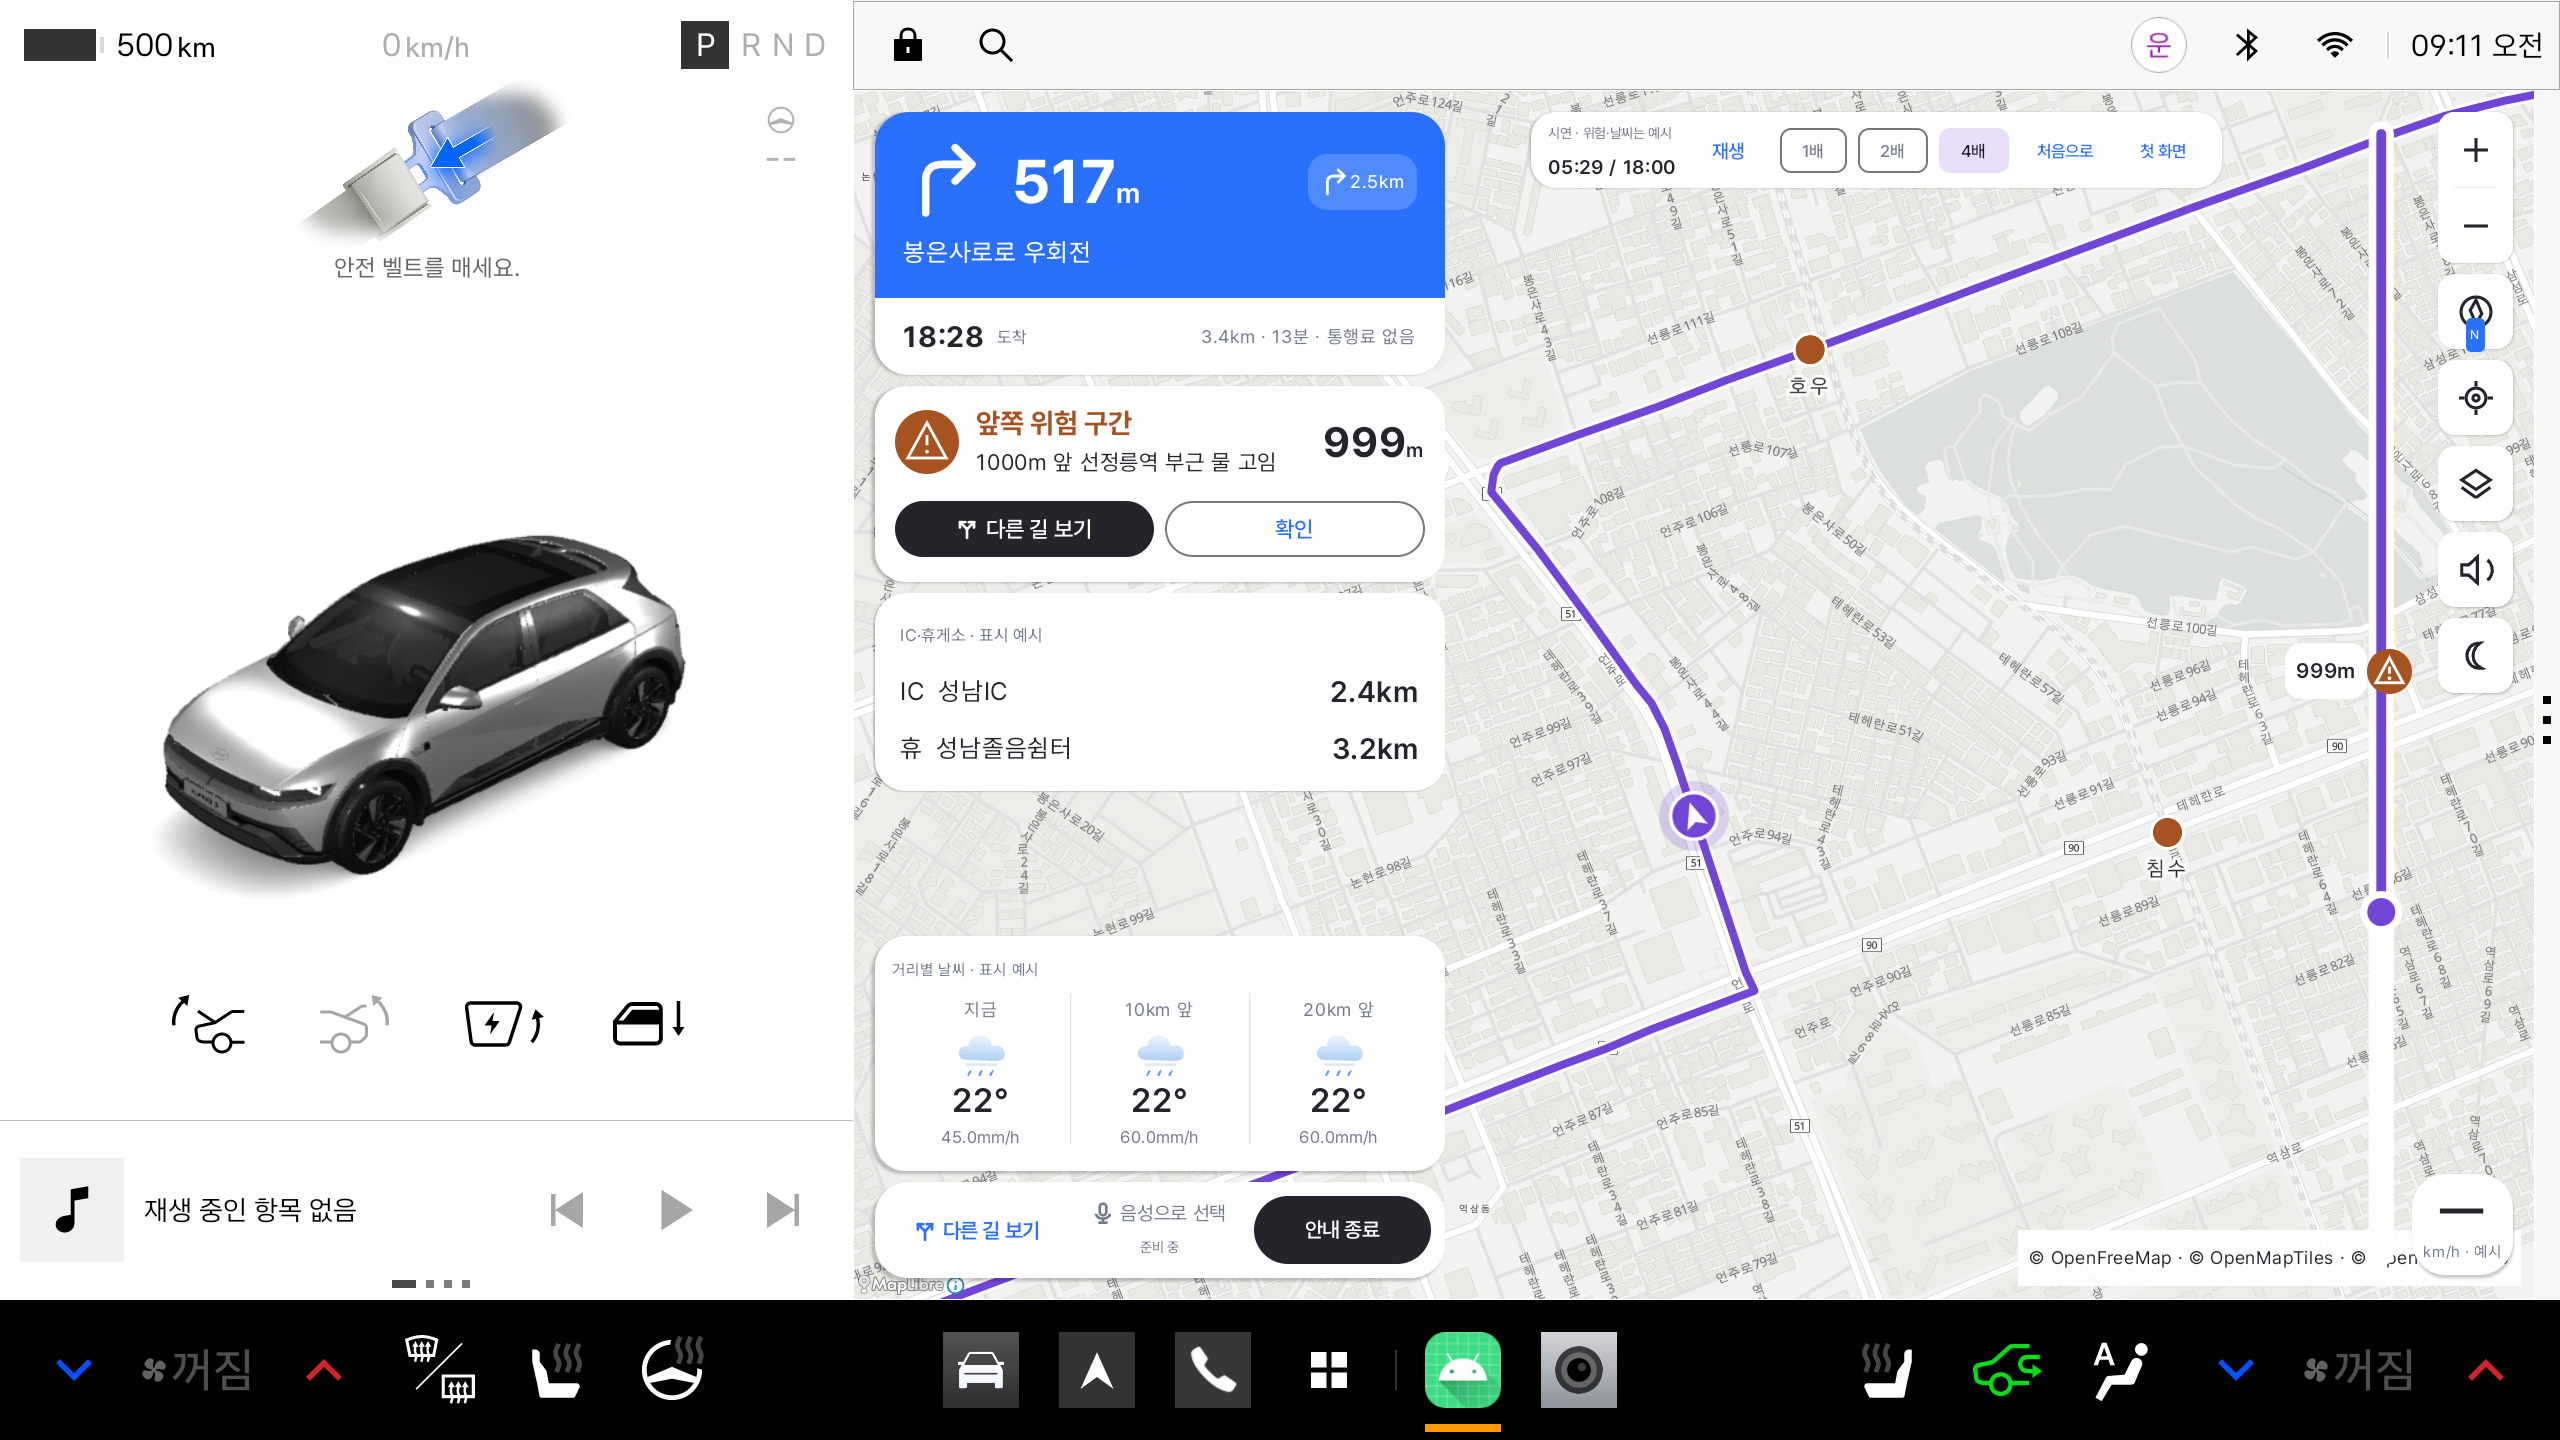
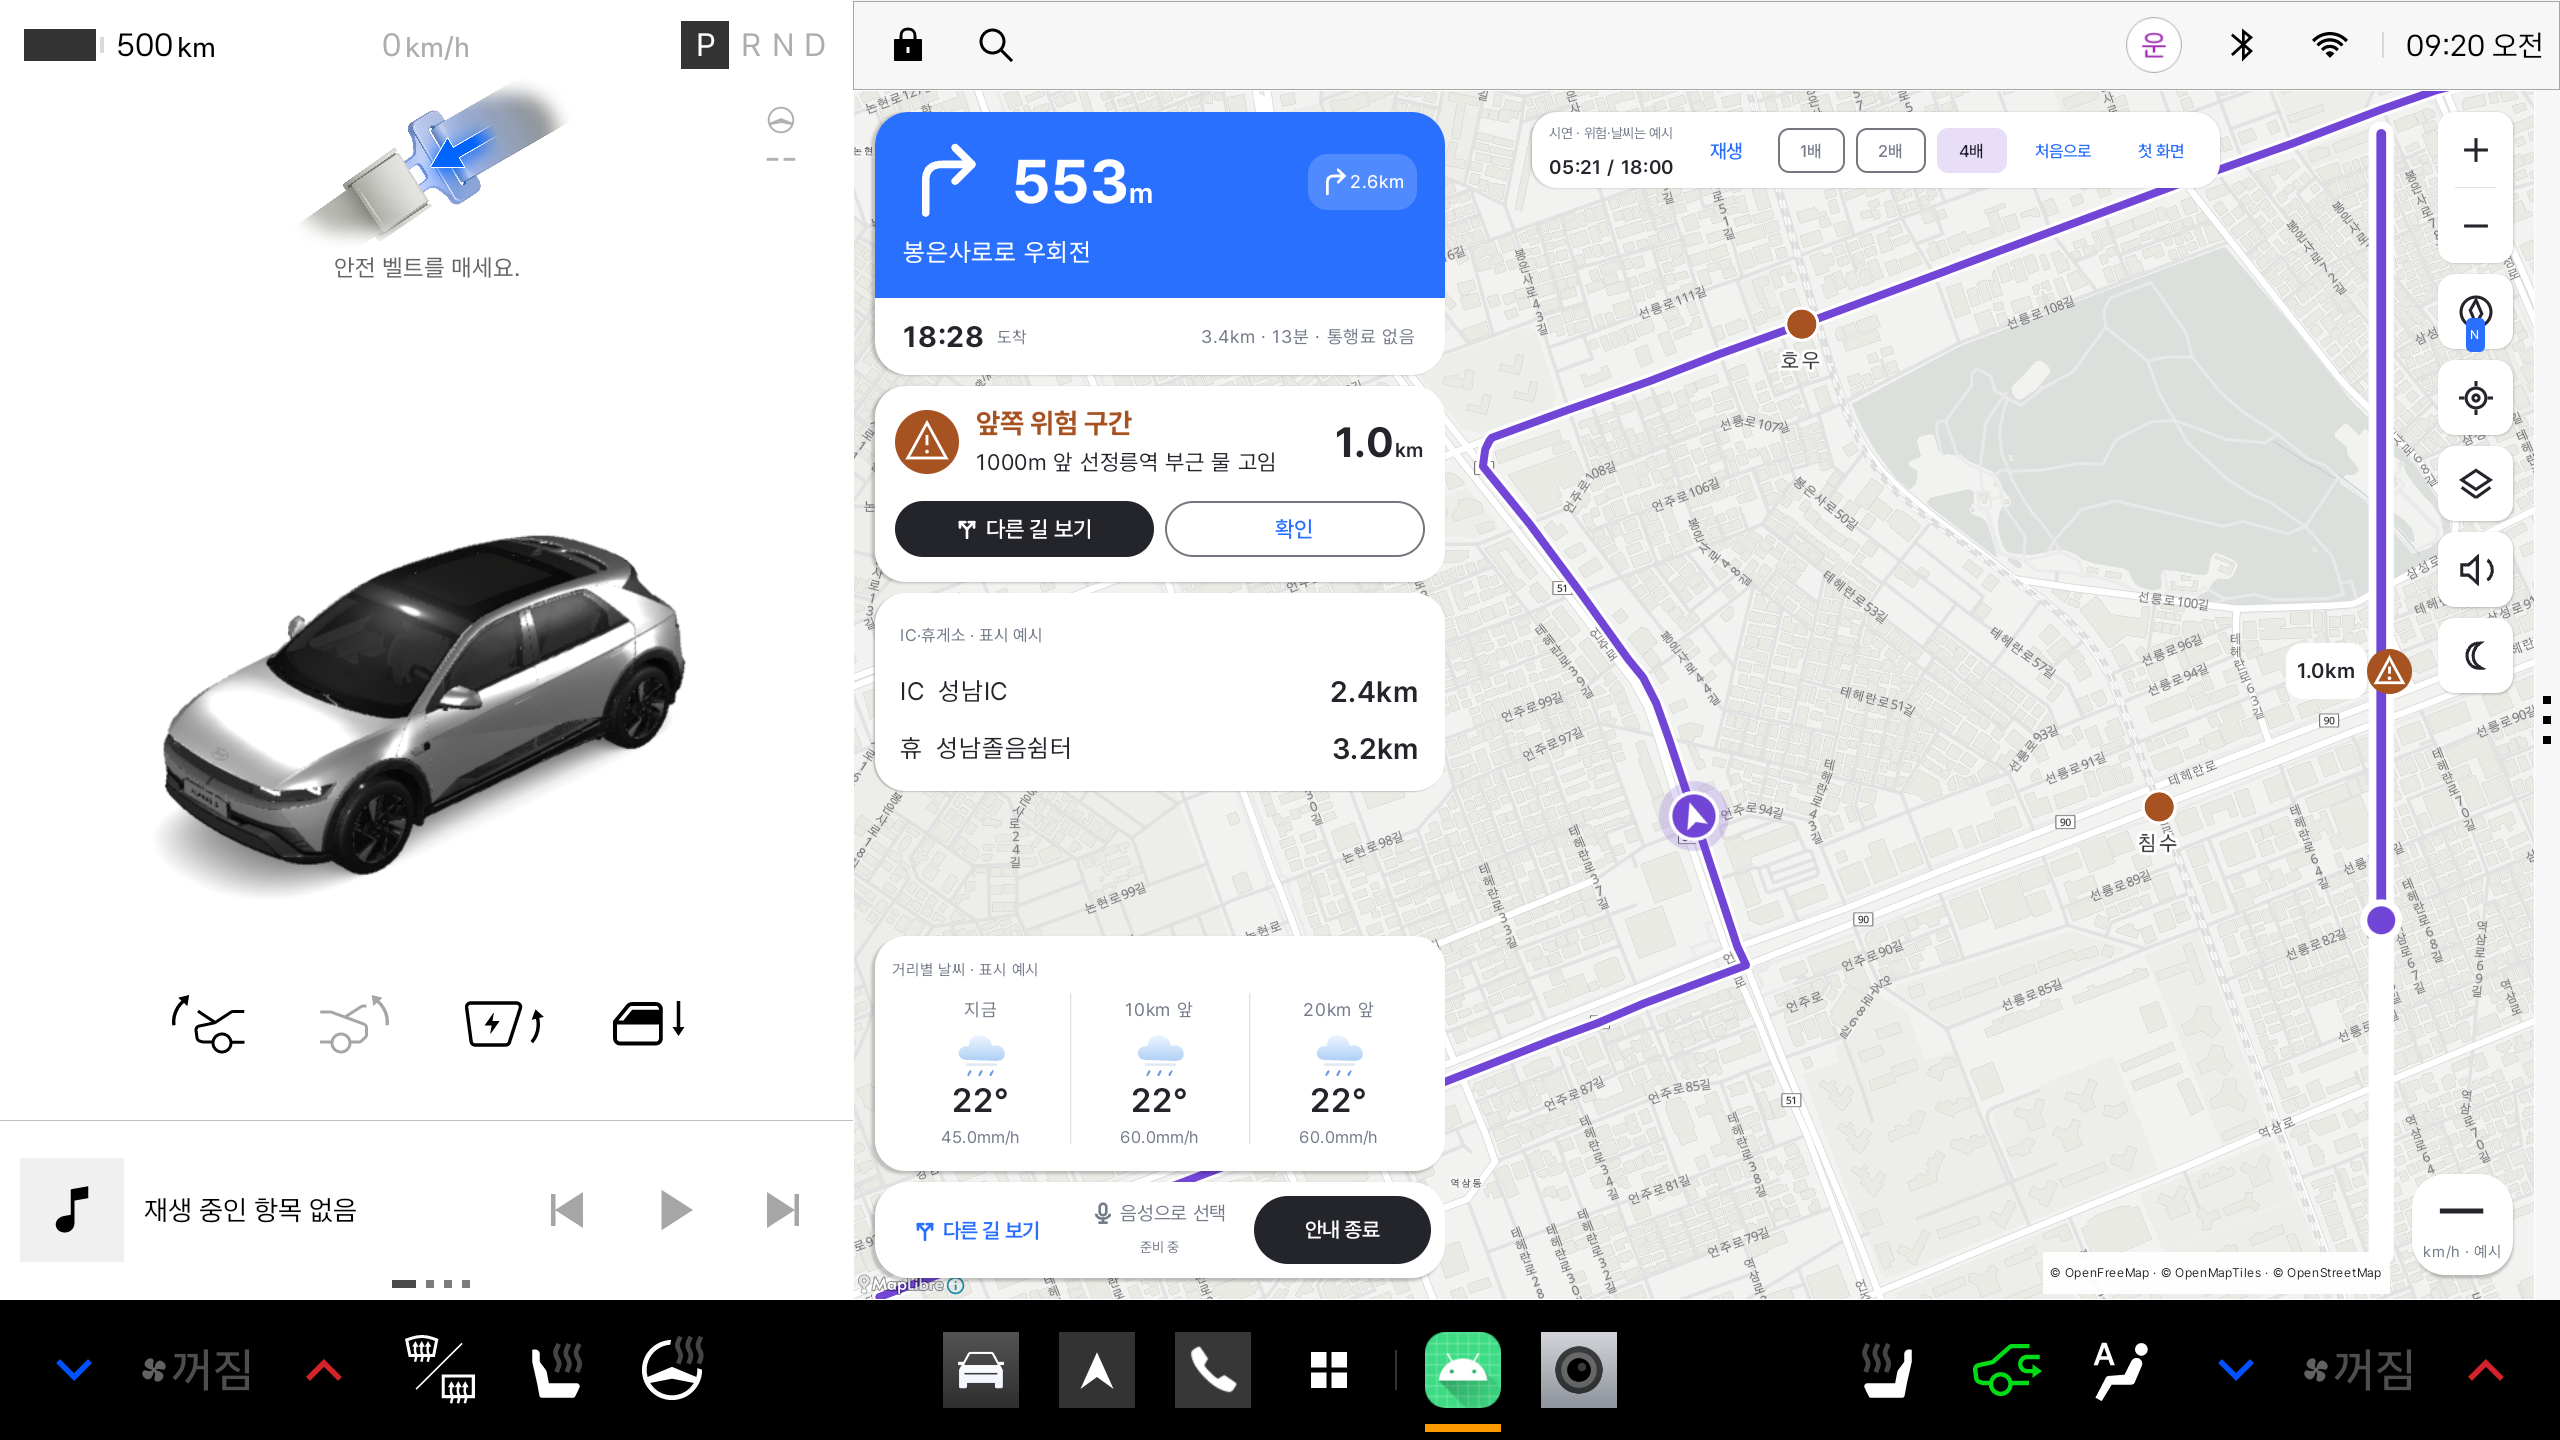
fix(map): 속도계와 지도 출처 표시 겹침 방지 (PLE-42)

diff --git a/app/src/main/java/com/example/pleosproj/ui/map/GuidanceMap.kt b/app/src/main/java/com/example/pleosproj/ui/map/GuidanceMap.kt
@@ -46,14 +46,14 @@ internal fun GuidanceMap(surface: MapSurface, state: GuidanceState, modifier: Mo
 internal fun MapCanvas(surface: MapSurface, modifier: Modifier = Modifier) {
     Box(modifier) {
         AndroidView(factory = { surface.view }, modifier = Modifier.fillMaxSize())
-        Surface(Modifier.align(Alignment.BottomEnd).padding(10.dp), color = Color.White.copy(alpha = 0.95f), contentColor = Color(0xFF23252B)) {
+        Surface(Modifier.align(Alignment.BottomEnd).padding(end = 104.dp, bottom = 4.dp), color = Color.White.copy(alpha = 0.95f), contentColor = Color(0xFF23252B)) {
             Text(buildAnnotatedString {
                 withLink(LinkAnnotation.Url("https://openfreemap.org/")) { append("© OpenFreeMap") }
                 append(" · ")
                 withLink(LinkAnnotation.Url("https://openmaptiles.org/")) { append("© OpenMapTiles") }
                 append(" · ")
                 withLink(LinkAnnotation.Url("https://www.openstreetmap.org/copyright")) { append("© OpenStreetMap") }
-            }, Modifier.padding(8.dp), fontSize = 13.sp)
+            }, Modifier.padding(horizontal = 5.dp, vertical = 3.dp), fontSize = 9.sp)
         }
         surface.loadMessage?.let { message ->
             Surface(Modifier.align(Alignment.BottomCenter).padding(bottom = 48.dp), color = androidx.compose.material3.MaterialTheme.colorScheme.surface) {
